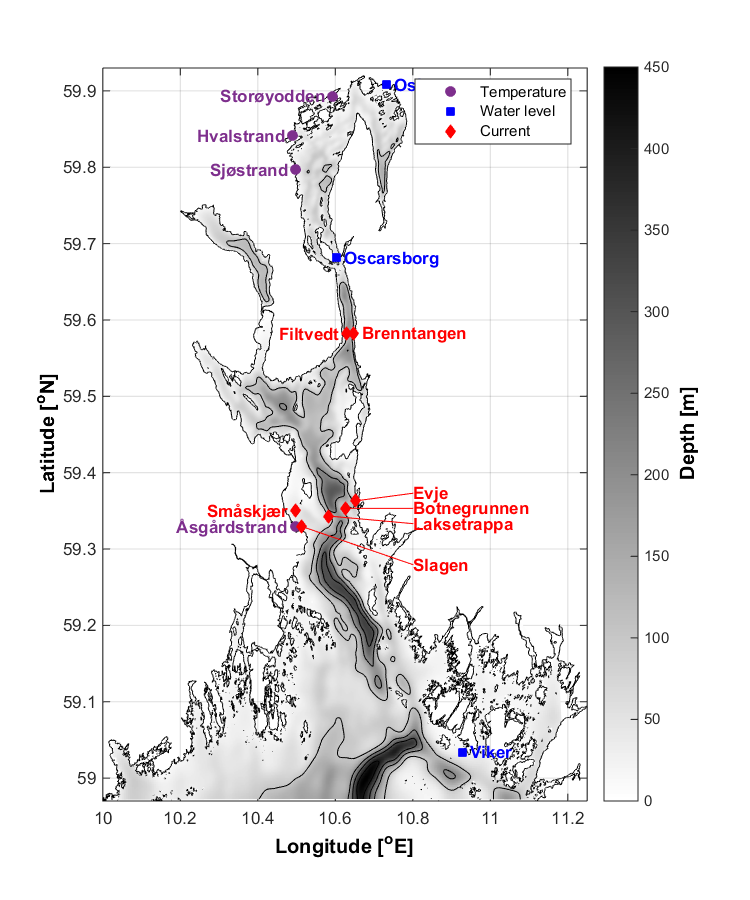
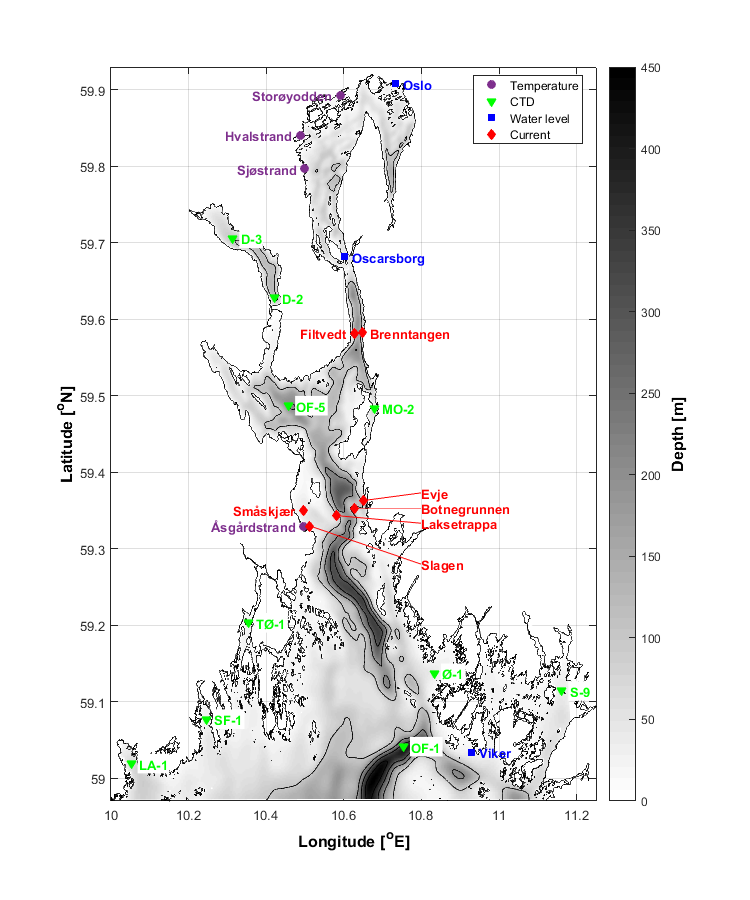
Redigerte CTD-beskrivelsene

diff --git a/observations.tex b/observations.tex
@@ -22,7 +22,7 @@ The Norwegian Mapping Authority has three permanent stations measuring sea level
 \subsection{Currents}
 
 \subsubsection{Currents in two cross sections}
-In the period from Monday 15 to Thursday 18 of September 2014 altogether seven rigs with instruments was deployed at seven positions in Oslofjorden (Tab.~\ref{tab:Statnett}). In the period from Monday 24 to Wednesday 16 of November the seven rigs with instruments were recovered. All but one rig had profiling current meters, while the last rig had TinyTag temperature loggers deployed at seven different depths between 20 and 120 m. At one station a single point current meter was deployed just below the profiling current meter. 
+In the period from Monday 15 to Thursday 18 of September 2014 altogether seven rigs with instruments was deployed at seven positions in Oslofjorden (Tab.~\ref{tab:Statnett} and Fig.~\ref{fig:kart_obs}). In the period from Monday 24 to Wednesday 16 of November the seven rigs with instruments were recovered. All but one rig had profiling current meters, while the last rig had TinyTag temperature loggers deployed at seven different depths between 20 and 120 m. At one station a single point current meter was deployed just below the profiling current meter. 
 
 The rigs were deployed as a part of a project conducted by Statnett, NIVA, Akvaplan NIVA, and the University of Oslo. The research vessel F/F Trygve Braarud was used during deployment and recovery of the rigs. Details on the applied rigs and corresponding instruments can be found in \cite{staalstrom:2015}.
 
@@ -58,13 +58,13 @@ Km2 & Filtvedt & 59.580778 & 10.626239 & 125 & 7 TinyTags UIO1-7 \\
 \clearpage
 
 \subsubsection{Currents at Slagentangen}
-Using a bottom-mounted doppler Exxonmobil has measured the currents in two depths since 1997. The device is placed 50-80 meters northwest of Turning Dolphin at the Slagen Refinery (Fig.~\ref{fig:Slagen-kart}). Note that Bliksekilen nature reserve is located west of Slagen Refinery. It is a shallow water area with rare flora and fauna. 
+Using a bottom-mounted doppler Exxonmobil has measured the currents in two depths since 1997. The device is placed 50-80 meters northwest of Turning Dolphin at the Slagen Refinery (Fig.~\ref{fig:kart_obs} and \ref{fig:Slagen-kart}). Note that Bliksekilen nature reserve is located west of Slagen Refinery. It is a shallow water area with rare flora and fauna. 
 
 \begin{figure}[htb]
 \centerline{
 \includegraphics*[trim=0cm 0cm 1cm 0cm,clip=true,width=0.8\textwidth]{Figurer/Slagen_kart}}
 \caption{\small
-Map of Slagen Refinery. The red dot marks the position corresponding to the extracted simulated data. Souce: the Norwegian Coastal Administration}
+Map of Slagen Refinery. The red dot marks the position corresponding to the extracted simulated data. Souce: Norwegian Coastal Administration}
 \label{fig:Slagen-kart}
 \end{figure}
 
@@ -73,18 +73,10 @@ Map of Slagen Refinery. The red dot marks the position corresponding to the extr
 
 \subsubsection{CTD measurements}
 
-In order to monitor the eutrophication state of the outer Oslofjord and the Drammensfjord, NIVA are responsible for CTD measurements at selected positions. The measurements includes different types of data and is freely available through a web portal\footnote{http://www.aquamonitor.no/ytreoslofjord/}. Between April 2014 and December 2015 measurements were performed in the model area at twelve of the CTD positions (Fig.~\ref{fig:CTD_pos}). 
-
-\begin{figure}[htb]
-\centerline{
-\includegraphics*[trim=0cm 0cm 1cm 0cm,clip=true,width=0.8\textwidth]{Figurer/CTD_pos}}
-\caption{\small
-The position of the CTD measurements taken between April 2014 and December 2015 in the model area.}
-\label{fig:CTD_pos}
-\end{figure}
+In order to monitor the eutrophication state of the outer Oslofjord and the Drammensfjord, NIVA are responsible for measurements at selected positions. The measurements includes different types of data, including CTD, and is freely available through a web portal\footnote{http://www.aquamonitor.no/ytreoslofjord/}. Between April 2014 and December 2015 CTD measurements were performed in the model area at ten of the positions (Fig.~\ref{fig:kart_obs}). 
 
 \begin{table}
-\caption{The coordinates and number measurements at the positions of the CTD measurements taken between April 2014 and December 2015 in the model area.} 
+\caption{The coordinates and number of measurements at the positions of the CTD measurements taken between April 2014 and December 2015 in the model area. Source: NIVA} 
 \label{tab:CTD_pos} 
 \centering 
 \begin{tabular}{|llllll|} 
